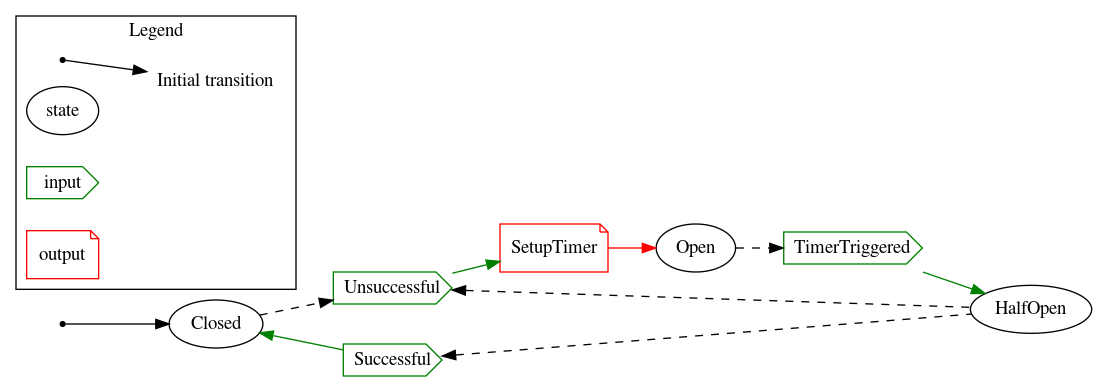
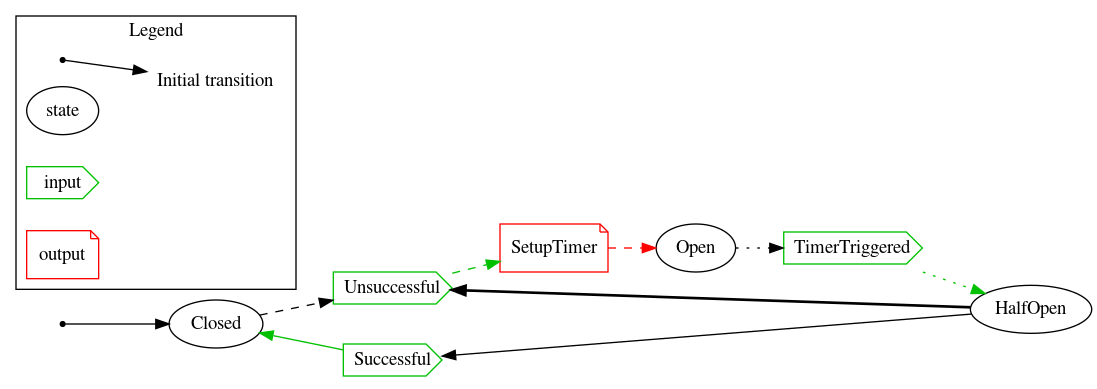
Vary edge linestyle for better readibility on edge overlap

diff --git a/src/main.rs b/src/main.rs
@@ -58,7 +58,7 @@ fn read_fsms(file: &str) -> Vec<StateMachineDef> {
 fn fsm_to_graphviz(fsm: StateMachineDef) -> (String, String) {
     let name = fsm.name.to_string();
 
-    let green = "\"#008000\"";
+    let green = "\"#00c000\"";
 
     let mut dot = format!(r#"digraph "graph" {{
   rankdir="LR";
@@ -83,6 +83,8 @@ fn fsm_to_graphviz(fsm: StateMachineDef) -> (String, String) {
     let mut seen_states = HashSet::new();
     let mut dot2 = Vec::new();
     let mut seen_edges = LinkedHashSet::new();
+    let line_styles = ["dashed", "dotted", "solid", "bold"].iter().map(|style| format!("style={}", style)).collect::<Vec<_>>();
+    let mut line_styles = line_styles.iter().cycle();
     fsm.transitions.into_iter()
         .for_each(|from| {
             let from_state = from.initial_state.to_string();
@@ -103,13 +105,14 @@ fn fsm_to_graphviz(fsm: StateMachineDef) -> (String, String) {
                 .for_each(|((output, final_state), input_values)| {
                     eprintln!("  to {} output {:?} for inputs {:?}", final_state, output, input_values);
                     let reverse = from_state != final_state && seen_states.contains(&final_state);
+                    let line_style = line_styles.next().unwrap();
                     if let Some(o) = output {
                         let output_node = format!("{}_{}", o, final_state);
                         let iv_node = format!("{}_{}_{}_iv", o, final_state, input_values.join("_"));
 
                         // reason I use arrowhead, arrowtail here + reversed order of nodes is so that they rank frim right-to-left instead of left-to-right
 
-                        insert_edge(&mut dot2, &mut seen_edges, reverse, &from_state, &iv_node, "style=dashed");
+                        insert_edge(&mut dot2, &mut seen_edges, reverse, &from_state, &iv_node, line_style);
 
 
                         if from_state == final_state {
@@ -121,14 +124,14 @@ fn fsm_to_graphviz(fsm: StateMachineDef) -> (String, String) {
                                           input_values.join(",\n"),
                                           green));
 
-                        insert_edge(&mut dot2, &mut seen_edges, reverse,iv_node, &output_node, format!("color={}", green));
+                        insert_edge(&mut dot2, &mut seen_edges, reverse,iv_node, &output_node, format!("{} color={}", line_style, green));
 
 
                         dot2.push(format!("  \"{}\" [label=\"{}\" color=red shape=note ];\n",
                                           output_node,
                                           o));
 
-                        insert_edge(&mut dot2, &mut seen_edges, reverse,output_node, final_state, "color=red");
+                        insert_edge(&mut dot2, &mut seen_edges, reverse,output_node, final_state, format!("{} color=red", line_style));
 
                     } else {
                         let iv_node = format!("{}_{}_iv", final_state, input_values.join("_"));
@@ -137,7 +140,7 @@ fn fsm_to_graphviz(fsm: StateMachineDef) -> (String, String) {
                             dot2.push(format!("  {{ rank=same; \"{}\"; \"{}\"; }}\n", from_state, iv_node));
                         }
 
-                        insert_edge(&mut dot2, &mut seen_edges, reverse,&from_state, &iv_node, "style=dashed");
+                        insert_edge(&mut dot2, &mut seen_edges, reverse,&from_state, &iv_node, line_style);
 
 
                         dot2.push(format!("  \"{}\" [label=\"{}\" color={} shape=cds ];\n",
@@ -145,7 +148,7 @@ fn fsm_to_graphviz(fsm: StateMachineDef) -> (String, String) {
                                           input_values.iter().join(",\n"),
                                           green));
 
-                        insert_edge(&mut dot2, &mut seen_edges, reverse, iv_node, final_state, format!("color={}", green));
+                        insert_edge(&mut dot2, &mut seen_edges, reverse, iv_node, final_state, format!("{} color={}", line_style, green));
                     }
                 });
         });
